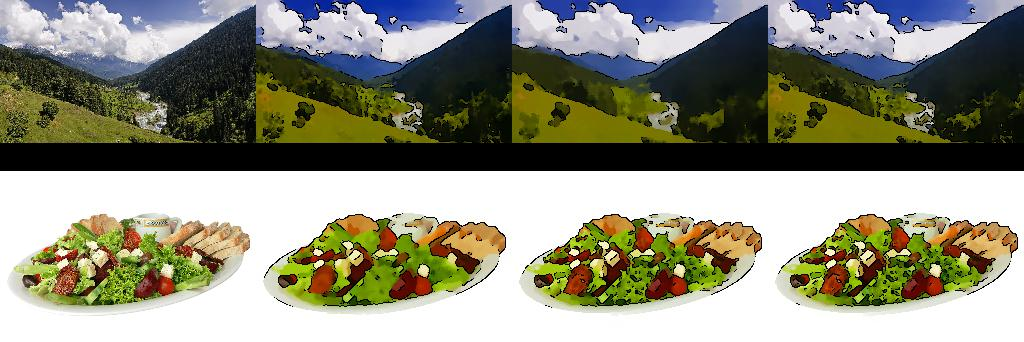
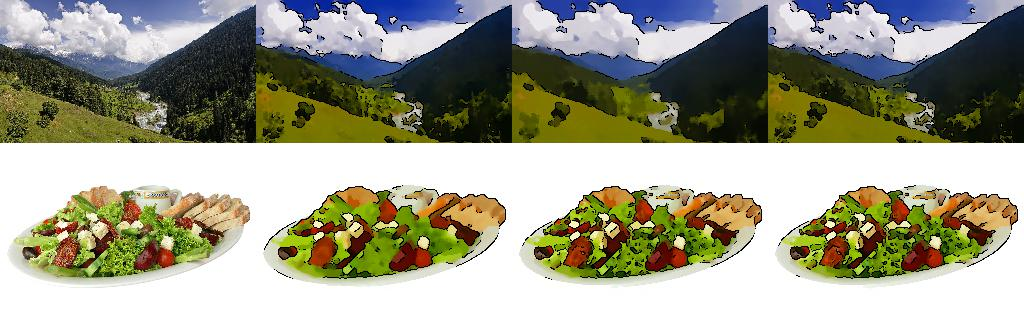
Improve changelog Cartoon example image

diff --git a/scripts/changelogs/gen_v040_changelog_images.py b/scripts/changelogs/gen_v040_changelog_images.py
@@ -126,7 +126,13 @@ def generate_cartoon():
     images_aug.append(image2)
     images_aug.extend(iaa.Cartoon()(images=[image2] * 3))
 
-    _save("cartoon.jpg", ia.draw_grid(images_aug, cols=4, rows=2))
+    # if we use a single draw_grid() call here, the function will currently
+    # add an ugly black border at the bottom of the first row, because the
+    # height of image1 is lower than of image2 and it will ensure that both
+    # rows have the same height
+    row1 = ia.draw_grid(images_aug[0:4], cols=4, rows=1)
+    row2 = ia.draw_grid(images_aug[4:], cols=4, rows=1)
+    _save("cartoon.jpg", np.vstack([row1, row2]))
 
 
 def generate_mean_shift_blur():
